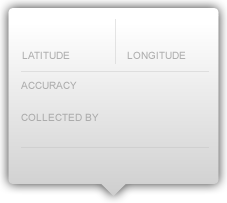
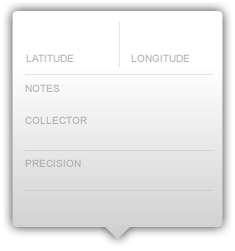
some images changes and new buttons

diff --git a/public/stylesheets/layout.css b/public/stylesheets/layout.css
@@ -161,14 +161,14 @@ div#tools div.table div.center-tool {position:absolute; top:0; bottom:0; left:14
 div#tools div.table div.right-repeat-tool {position:absolute; top:0; right:0; bottom:0; width:24px; background:url('/images/editor/right-repeat-tool.png') repeat-y left 0;}
 div#tools div.center div.left {float:left; width:62px; padding:0; margin:0;}
 div#tools div.center div.left a {float:left; width:62px; height:50px; margin:0;}
-div#tools div.center div.left a.select {background:url('/images/editor/select.jpg') no-repeat 0 -1px; height:49px;}
+div#tools div.center div.left a.select {background:url('/images/editor/tool_buttons.png') no-repeat 0 -1px; height:49px;}
 div#tools div.center div.left a.select:hover {background-position:0 -51px; cursor:pointer;}
 div#tools div.center div.left a.select.selected {background-position:0 -51px;}
-div#tools div.center div.left a.selection {background:url('/images/editor/selection.jpg') no-repeat 0 0;}
-div#tools div.center div.left a.add {background:url('/images/editor/add_point.jpg') no-repeat 0 0;}
-div#tools div.center div.left a.remove {background:url('/images/editor/remove_point.jpg') no-repeat 0 0;}
-div#tools div.center div.left a.layer {background:url('/images/editor/add_layer.jpg') no-repeat 0 0;}
-div#tools div.center div.left a:hover {background-position:0 -50px; cursor:pointer;}
+div#tools div.center div.left a.selection {background:url('/images/editor/tool_buttons.png') no-repeat -62px 0;}
+div#tools div.center div.left a.add {background:url('/images/editor/tool_buttons.png') no-repeat -124px 0;}
+div#tools div.center div.left a.remove {background:url('/images/editor/tool_buttons.png') no-repeat -186px 0;}
+div#tools div.center div.left a.layer {background:url('/images/editor/tool_buttons.png') no-repeat -248px 0;}
+div#tools div.center div.left a:hover {background-position-y:-50px; cursor:pointer;}
 div#tools div.center div.left a.selected {background-position:0 -50px;}
 div#tools div.center div.left a.selected:hover {cursor:default;}
 div#tools div.center div.right {position:absolute; right:-10px; top:0; bottom:0; width:260px; z-index:10;}
@@ -408,9 +408,10 @@ div#map_container div.footer div.left a.redo:hover {background-position:-44px -3
 div#map_container div.footer div.left p {opacity:0; float:left; height:32px; padding:0 0 0 5px; margin:0 0 0 10px; background:url('/images/editor/action_left.png') no-repeat 0 0;}
 div#map_container div.footer div.left p span {float:left; padding:7px 11px 7px 6px; height:18px; font:normal 13px Arial; color:#cccccc; background:url('/images/editor/action_right.png') no-repeat right 0;}
 div#map_container div.footer div.right {float:right; margin:15px 5px 0 0;}
-div#map_container div.footer div.right a.download {float:left; width:158px; height:32px; background:url('/images/editor/download_button.png') no-repeat 0 0;}
-div#map_container div.footer div.right a.export {float:left; width:115px; margin:0 5px 0 0; height:32px; background:url('/images/editor/export_button.png') no-repeat 0 0;}
-div#map_container div.footer div.right a:hover {background-position:0 -32px; cursor:pointer;}
+div#map_container div.footer div.right a.download {float:left; width:158px; height:33px; background:url('/images/editor/download_button.png') no-repeat 0 0;}
+div#map_container div.footer div.right a.download:hover {background-position:0 -33px; cursor:pointer;}
+div#map_container div.footer div.right a.export {float:left; width:115px; margin:0 5px 0 0; height:35px; background:url('/images/editor/export_button.png') no-repeat 0 0;}
+div#map_container div.footer div.right a.export:hover {background-position:0 -35px; cursor:pointer;}
 /*Metadata*/
 div.metadata {width:326px!important; height:515px!important; padding:22px 22px 0 33px!important; margin:0;}
 div.metadata span.error_latlng {position:absolute; display:none; width:206px; height:74px; top:5px; background:url('/images/editor/error_latlng.png') no-repeat 0 0; z-index:100;}

diff --git a/public/javascripts/editor/MapOverlays/MarkerTooltip.js b/public/javascripts/editor/MapOverlays/MarkerTooltip.js
@@ -30,7 +30,7 @@
 				div.style.opacity = "0";
 				div.style.width = '233px';
 				div.style.height = '245px';
-				div.style.background = 'url(/images/editor/tooltip_bkg3.png) no-repeat 0 0';
+				div.style.background = 'url(/images/editor/tooltip_bkg.png) no-repeat 0 0';
 		
 				//Close Infowindow button
 				var close_button = document.createElement('a');
